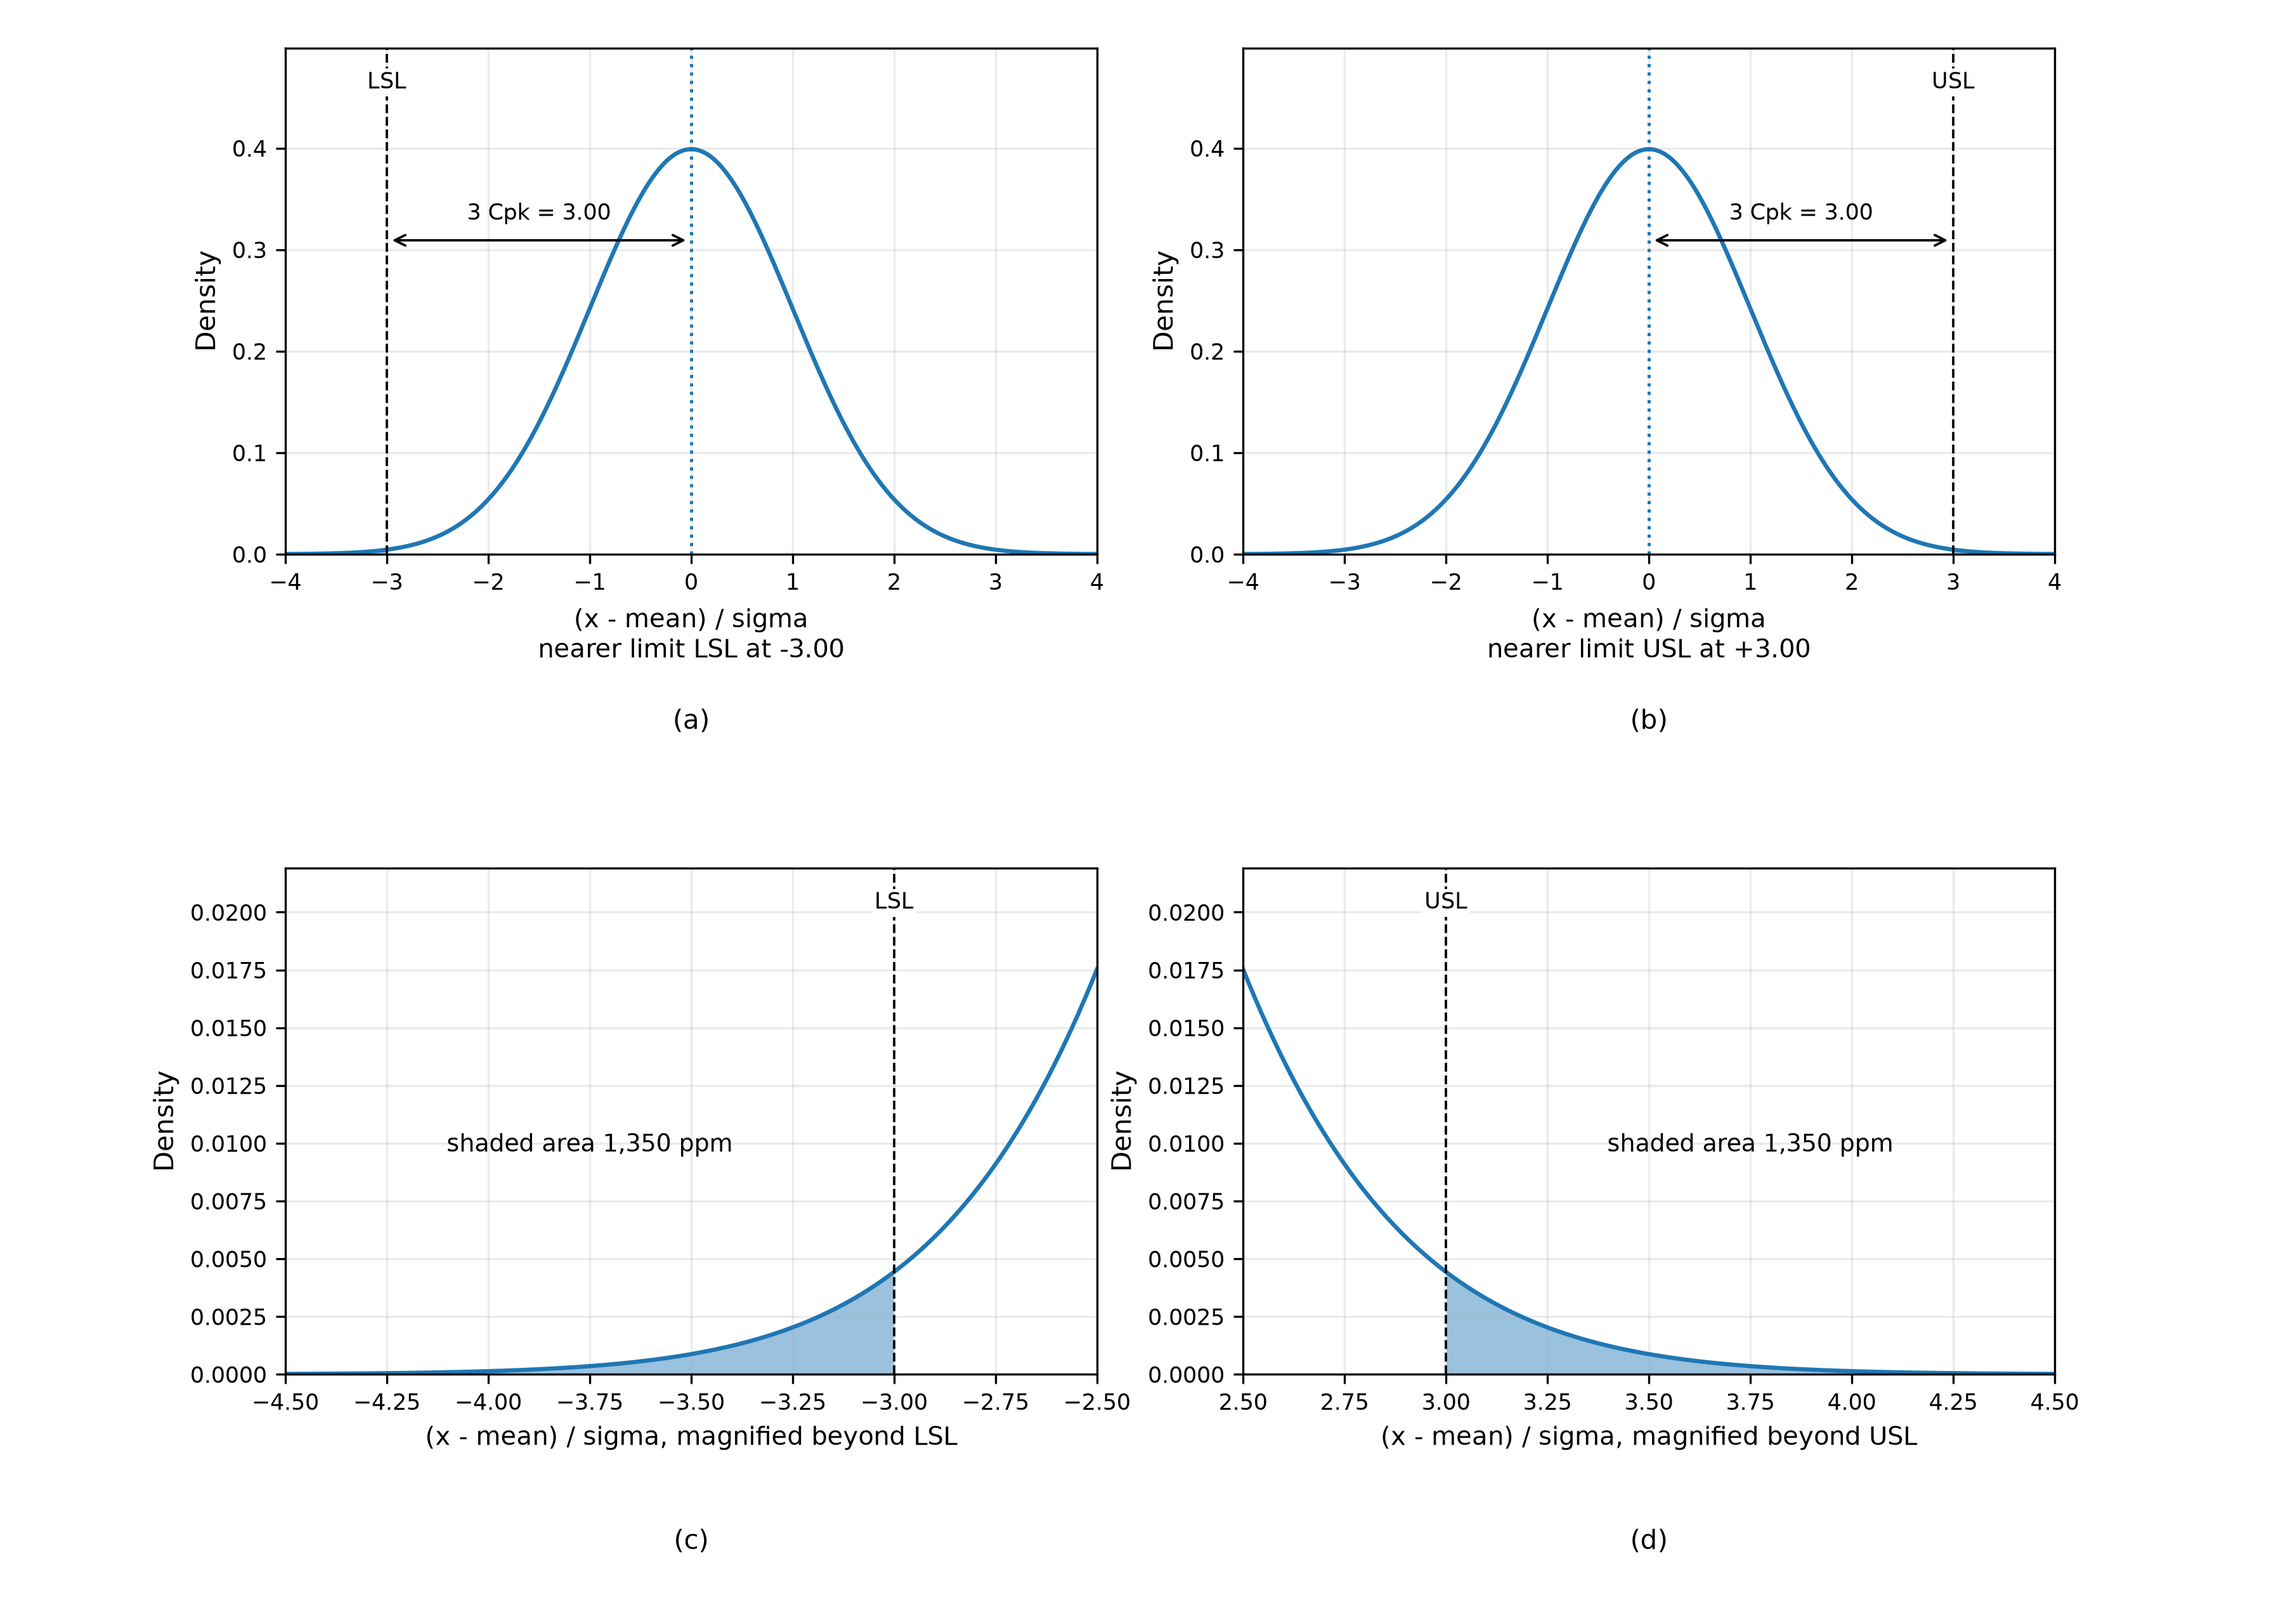
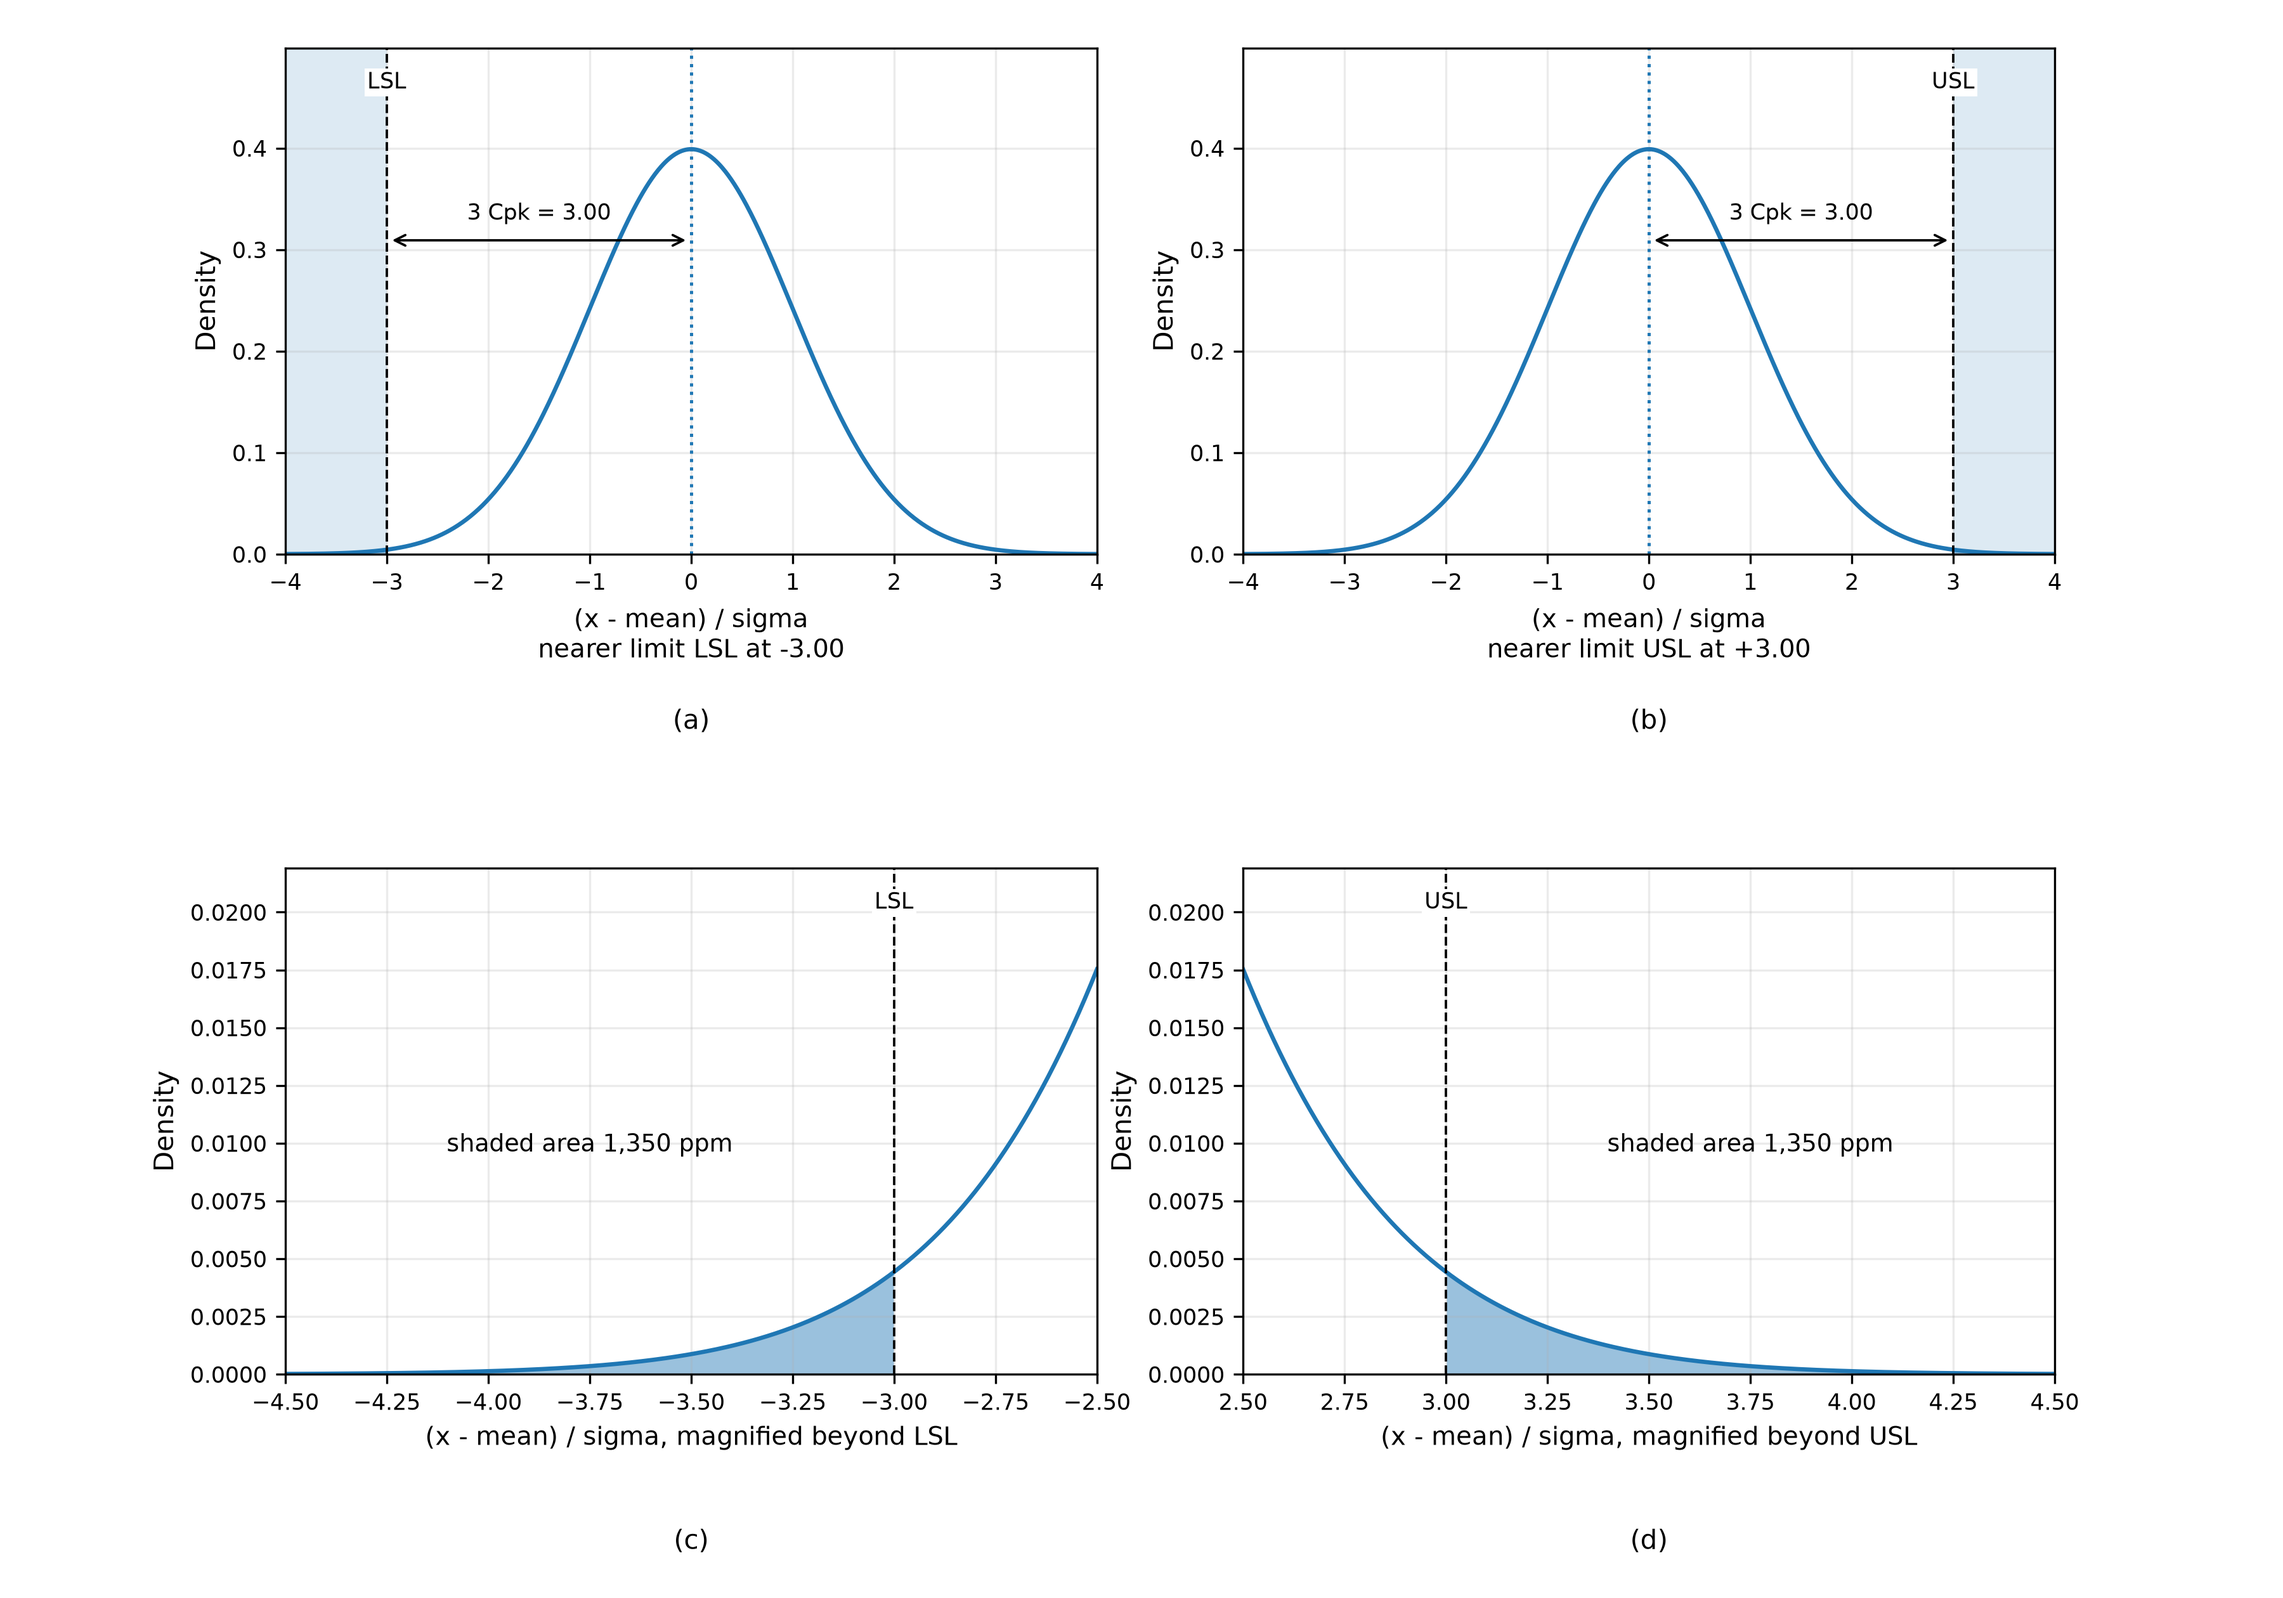
Mark the tail region in the top row of Fig 1 and cite equation (6)
Claude-Session: https://claude.ai/code/session_01PJS95ocv6j5PPHUZ7Rfcsi

Changed region(s): [[0.84, 0.031, 0.9022, 0.3714], [0.1244, 0.031, 0.1867, 0.3714]]

diff --git a/Applied-Statistics/SPC/Process-Capability-Index/process_capability_index.py b/Applied-Statistics/SPC/Process-Capability-Index/process_capability_index.py
@@ -9,7 +9,7 @@ Changelog:
     0.2.0 Draw the near tail of one Cpk on either side as a third figure.
 """
 __author__ = 'yRocket'
-__version__ = "0.2.0.2026.9.28"  # Semantic Versioning: Major.Minor.Patch.Date(YYYY.M.D)
+__version__ = "0.2.1.2026.9.28"  # Semantic Versioning: Major.Minor.Patch.Date(YYYY.M.D)
 
 import argparse
 import pathlib
@@ -246,6 +246,8 @@ def draw_near_tail(cpk: float = NEAR_TAIL_CPK, output_path: pathlib.Path = None)
                       bbox={'facecolor': 'white', 'edgecolor': 'none', 'pad': 1.0})
         whole, tail = axes[0, column], axes[1, column]
         whole.axvline(0.0, color=color, linestyle=':', linewidth=1.2)
+        # the area beyond the limit is too thin to see at full scale, so a band marks the region it lies in
+        whole.axvspan(limit, grid.min() if side < 0 else grid.max(), color=color, alpha=0.15, linewidth=0.0)
         arrow_height = top * 0.62
         whole.annotate('', xy=(limit, arrow_height), xytext=(0.0, arrow_height),
                        arrowprops={'arrowstyle': '<->', 'color': 'black', 'linewidth': 0.9})

diff --git a/Applied-Statistics/SPC/Process-Capability-Index/process-capability-index-ko.md b/Applied-Statistics/SPC/Process-Capability-Index/process-capability-index-ko.md
@@ -1,5 +1,5 @@
 # Process Capability Indices
-Rev. 23 | Created: 2026-09-04 | Updated: 2026-09-28 13:49 CDT
+Rev. 24 | Created: 2026-09-04 | Updated: 2026-09-28 13:51 CDT
 
 - [1. Scope](#1-scope)
 - [2. Definitions](#2-definitions)
@@ -107,7 +107,7 @@ LSL = \mu - 3 C_{pk} \sigma & \mathrm{if}\ LSL\ \mathrm{is\ the\ nearer\ limit}
 \hspace{19em} (6)
 ```
 
-$C_{pk}$ 는 평균에서 그 한계까지의 거리를 $3\sigma$ 로 나눈 값이므로, 그 한계는 평균에서 표준편차 $3 C_{pk}$ 개만큼 떨어져 있다. 표준정규분포에서 $-3 C_{pk}$ 이하가 나올 확률이 $\Phi(-3 C_{pk})$ 이고, 분포가 좌우 대칭이므로 $+3 C_{pk}$ 이상이 나올 확률도 같다. 따라서 가까운 쪽 한계가 $LSL$ 이든 $USL$ 이든 near tail 의 비율은 $\Phi(-3 C_{pk})$ 이다. 예를 들어 $C_{pk} = 1.00$ 이면 한계가 표준편차 3 개 거리에 있고 $\Phi(-3) = 0.00135$ 이므로, near tail 은 1350 ppm 이다.
+$C_{pk}$ 는 평균에서 그 한계까지의 거리를 $3\sigma$ 로 나눈 값이므로, 그 한계는 식 (6) 처럼 평균에서 표준편차 $3 C_{pk}$ 개만큼 떨어져 있다. 표준정규분포에서 $-3 C_{pk}$ 이하가 나올 확률이 $\Phi(-3 C_{pk})$ 이고, 분포가 좌우 대칭이므로 $+3 C_{pk}$ 이상이 나올 확률도 같다. 따라서 가까운 쪽 한계가 $LSL$ 이든 $USL$ 이든 near tail 의 비율은 $\Phi(-3 C_{pk})$ 이다. 예를 들어 $C_{pk} = 1.00$ 이면 한계가 표준편차 3 개 거리에 있고 $\Phi(-3) = 0.00135$ 이므로, near tail 은 1350 ppm 이다.
 
 Fig 1 은 $C_{pk} = 1.00$ 인 공정의 near tail 을 그린 것이다.
 
@@ -118,6 +118,8 @@ puts the nearer limit 3 standard deviations below the mean and the right column 
 The y axis is the standard normal probability density $\varphi(z)$ of equation (9); its height is not
 a probability, but its area over an interval is the probability of falling in that interval, so the
 shaded area is the near tail rate.
+In the top row the band marks the region beyond the limit, since the area under the curve there is
+too thin to see at full scale; the bottom row magnifies that area.
 
 - (a) 가까운 쪽 한계가 $LSL$ 이며, 평균에서 $LSL$ 까지의 거리가 $3 C_{pk} = 3$ 이다.
 - (b) 가까운 쪽 한계가 $USL$ 이며, 거리는 (a) 와 같은 3 이다.

diff --git a/Applied-Statistics/SPC/Process-Capability-Index/process-capability-index.md b/Applied-Statistics/SPC/Process-Capability-Index/process-capability-index.md
@@ -1,5 +1,5 @@
 # Process Capability Indices
-Rev. 24 | Created: 2026-09-04 | Updated: 2026-09-28 13:49 CDT
+Rev. 25 | Created: 2026-09-04 | Updated: 2026-09-28 13:51 CDT
 
 - [1. Scope](#1-scope)
 - [2. Definitions](#2-definitions)
@@ -113,7 +113,7 @@ LSL = \mu - 3 C_{pk} \sigma & \mathrm{if}\ LSL\ \mathrm{is\ the\ nearer\ limit}
 \hspace{19em} (6)
 ```
 
-$C_{pk}$ is the distance from the mean to that limit divided by $3\sigma$, so the limit lies $3 C_{pk}$ standard deviations from the mean. The probability that a standard normal value is at most $-3 C_{pk}$ is $\Phi(-3 C_{pk})$, and because the distribution is symmetric, the probability that it is at least $+3 C_{pk}$ is the same. The near tail rate is therefore $\Phi(-3 C_{pk})$ whether the nearer limit is $LSL$ or $USL$. For example, $C_{pk} = 1.00$ puts the limit three standard deviations away, and $\Phi(-3) = 0.00135$, so the near tail is 1350 ppm.
+$C_{pk}$ is the distance from the mean to that limit divided by $3\sigma$, so the limit lies $3 C_{pk}$ standard deviations from the mean, as equation (6) shows. The probability that a standard normal value is at most $-3 C_{pk}$ is $\Phi(-3 C_{pk})$, and because the distribution is symmetric, the probability that it is at least $+3 C_{pk}$ is the same. The near tail rate is therefore $\Phi(-3 C_{pk})$ whether the nearer limit is $LSL$ or $USL$. For example, $C_{pk} = 1.00$ puts the limit three standard deviations away, and $\Phi(-3) = 0.00135$, so the near tail is 1350 ppm.
 
 Fig 1 draws the near tail of a process with $C_{pk} = 1.00$.
 
@@ -124,6 +124,8 @@ puts the nearer limit 3 standard deviations below the mean and the right column 
 The y axis is the standard normal probability density $\varphi(z)$ of equation (9); its height is not
 a probability, but its area over an interval is the probability of falling in that interval, so the
 shaded area is the near tail rate.
+In the top row the band marks the region beyond the limit, since the area under the curve there is
+too thin to see at full scale; the bottom row magnifies that area.
 
 - (a) The nearer limit is $LSL$, and the distance from the mean to it is $3 C_{pk} = 3$.
 - (b) The nearer limit is $USL$, at the same distance 3 as in (a).
